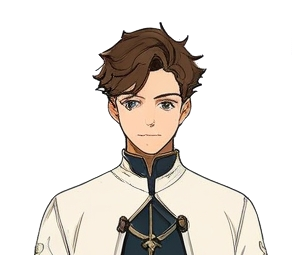
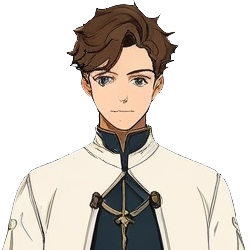
heroes details

diff --git a/screens/gameplay_screen.py b/screens/gameplay_screen.py
@@ -325,25 +325,15 @@ class GameplayScreen(Screen):
 
         # Retrato
         portrait = Image(
-            source=getattr(hero, "photo_url", "assets/ui/default_hero.png"),
-            size_hint=(None, None),
-            size=(120, 120),
+            source=getattr(hero, "photo_body_url", "assets/ui/default_hero.png"),
+            size_hint=(None, 1),   # altura acompanha o pai, largura é manual
             allow_stretch=True,
-            keep_ratio=True
+            keep_ratio=True        # mantém proporção
         )
         content.add_widget(portrait)
 
         # Coluna de infos
         info_box = BoxLayout(orientation="vertical", spacing=5)
-
-        info_box.add_widget(Label(
-            text=f"[b]{hero.name}[/b]",
-            markup=True,
-            font_size=20,
-            color=(0, 0, 0, 1),
-            size_hint_y=None,
-            height=30
-        ))
 
         info_box.add_widget(Label(
             text=f"Classe: {getattr(hero, 'hero_class', 'Desconhecida')}",
@@ -381,15 +371,19 @@ class GameplayScreen(Screen):
             )
             story_label.bind(texture_size=lambda inst, val: setattr(story_label, "height", val[1]))
 
-            scroll = ScrollView(size_hint=(1, 0.4))
+            scroll = ScrollView(size_hint=(1, 0.6))
             scroll.add_widget(story_label)
             info_box.add_widget(scroll)
 
         content.add_widget(info_box)
 
         popup = Popup(
-            title="📜 Detalhes do Herói",
+            title=hero.name,
             content=content,
+            title_align='center',
+            title_size=28,
+            title_color=(0, 0, 0, 1),
+            separator_color=(0, 0, 0, 1),
             background="assets/background.png",
             size_hint=(0.6, 0.7),  # aumentei pra caber a história
             auto_dismiss=True

diff --git a/core/hero.py b/core/hero.py
@@ -35,6 +35,7 @@ class Hero:
         defects: List[str],
         story: str,
         photo_url: str,
+        photo_body_url: str,
         unlock_by_quest: None,
         growth_curve: Dict[str, Dict[str, int]],
         starter: bool = False,
@@ -48,6 +49,7 @@ class Hero:
         self.defects = defects
         self.story = story
         self.photo_url = photo_url
+        self.photo_body_url = photo_body_url
         self.unlock_by_quest = unlock_by_quest or []
         self.growth_curve = growth_curve  # stats absolutos por nível (chaves string)
         self.starter = starter
